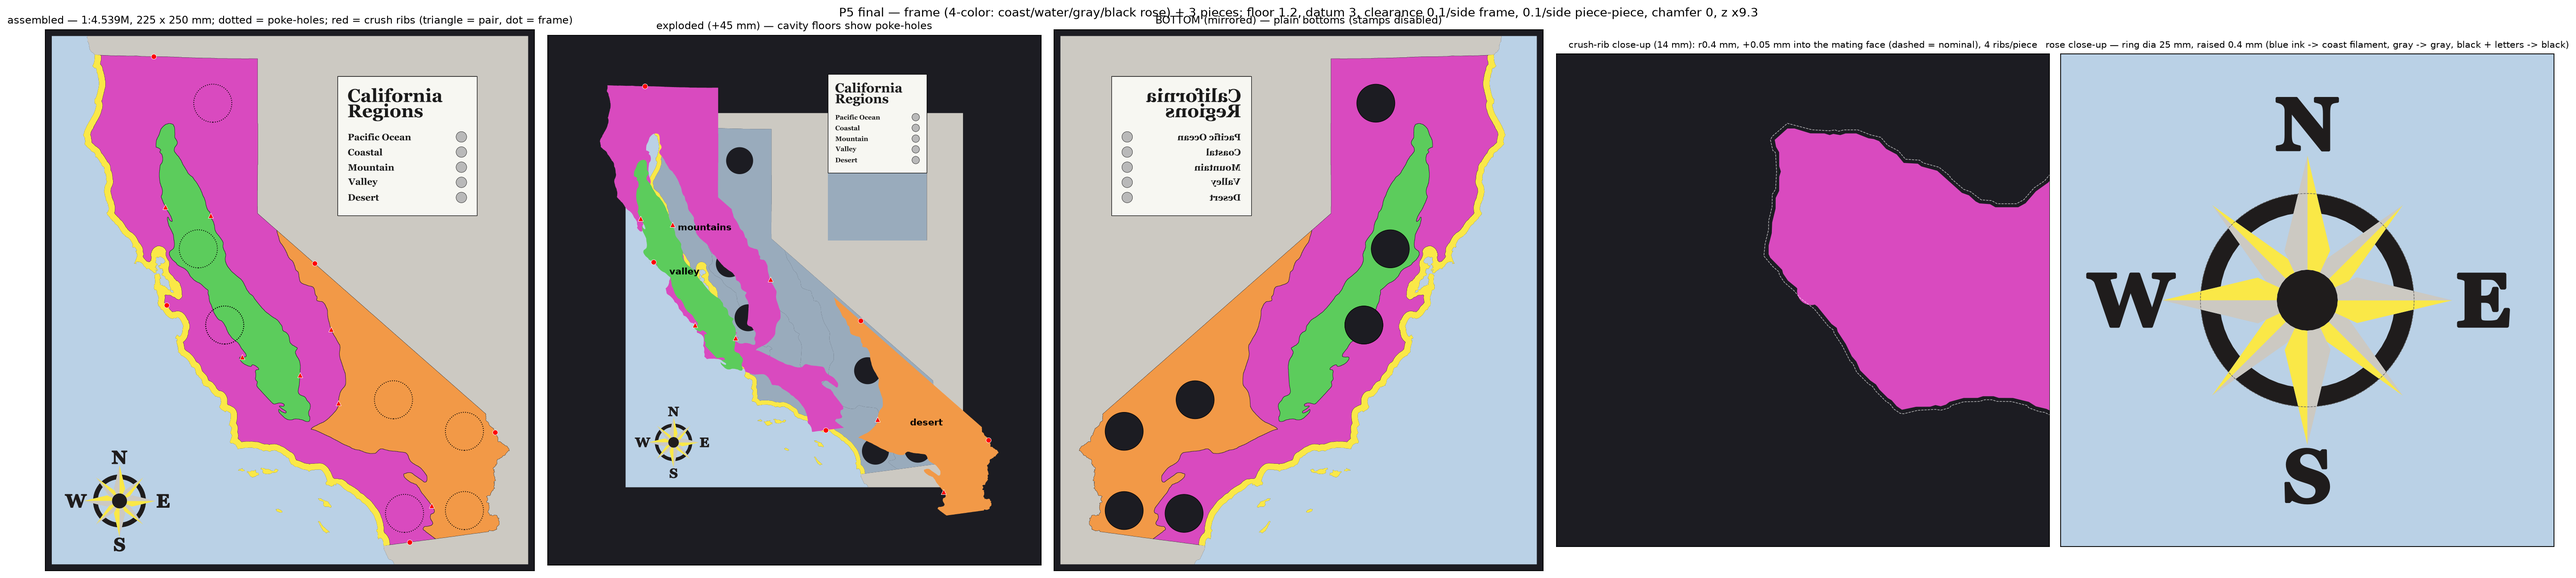
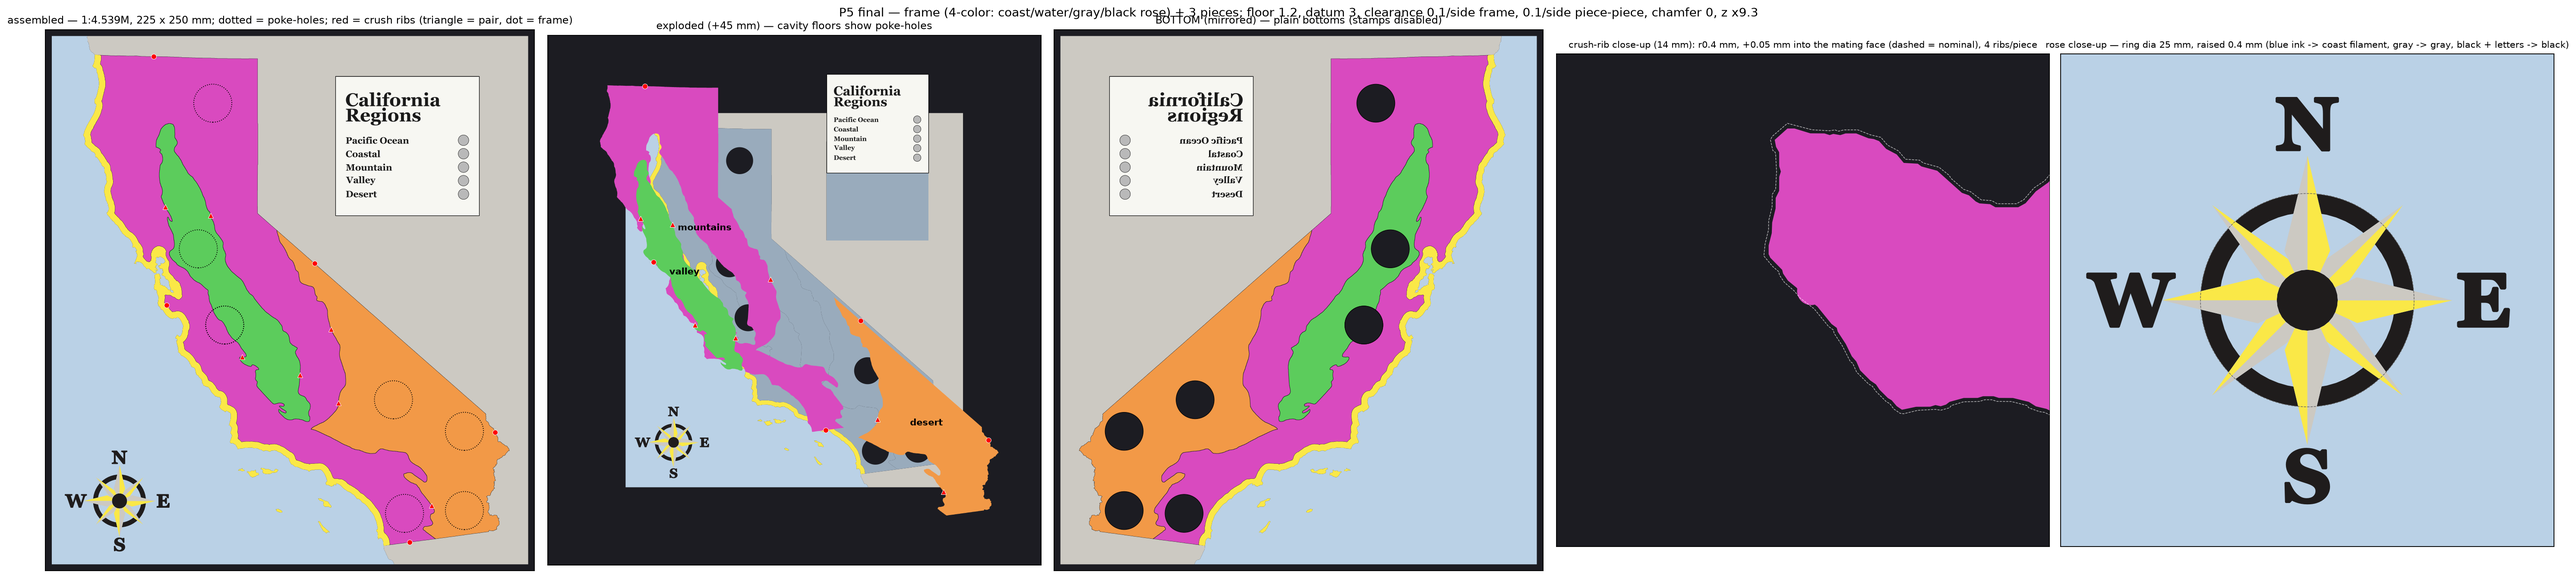
Key insert: cut line, crop marks, and a blank border inside it
ahl: "a cut line and a border all the way around? I don't like that the
left edge is right up against the lettering".

The page is now the recess plus 5 mm of spare paper on every side --
something to hold while trimming -- with a cut line and corner crop
marks drawn at the exact recess size, so cutting on the line yields a
piece that drops straight into the recess. Inside that, layout()
reserves a 2 mm blank border before any type.

That border comes OUT of the usable text column, which had a
consequence worth naming: "California" at the 6 mm title cap is
44.6 mm, and a bordered 48 mm column leaves only 44 mm, so the title
would no longer fit. The key grew 66 -> 68 mm wide to absorb it. The
_wrap assert would have caught this, but better to size for it than to
trip it.

Both margins are config ([key].insert_border_mm / insert_bleed_mm), and
the row/pocket positions fold the border in once so the swatches still
line up with their labels. The P5 preview draws the real inset text, so
the border is visible there too.

Changed region(s): [[0.1247, 0.1529, 0.187, 0.3669], [0.4363, 0.1529, 0.4987, 0.3669], [0.3117, 0.1223, 0.374, 0.2752]]

diff --git a/pipeline/key_panel.py b/pipeline/key_panel.py
@@ -79,6 +79,11 @@ TITLE_CAP_MM = 6.0         # ahl 2026-09-15: same size as the compass
                            # the text column needs.
 TITLE_GAP_MM = 4.0         # space between the title block and the list
 TITLE_LINE_FRAC = 1.35     # title line height / cap
+INSERT_BORDER_MM = 2.0     # blank margin inside the cut line on the
+                           # printed insert, so type is not flush to the
+                           # paper edge (ahl 2026-09-15)
+INSERT_BLEED_MM = 5.0      # extra paper OUTSIDE the cut line, to hold
+                           # while trimming
 
 
 # ---------------------------------------------------------------- layout
@@ -106,7 +111,7 @@ def _wrap(text, ff, cap_mm, max_w):
 
 def layout(plate_w, plate_h, pocket_d=None, title=TITLE,
            title_cap=TITLE_CAP_MM, title_gap=TITLE_GAP_MM,
-           label_cap=CAP_MM):
+           label_cap=CAP_MM, insert_border=INSERT_BORDER_MM):
     """Lay the key out inside a GIVEN plate rectangle (ahl 2026-09-15:
     the key's footprint comes from config [key], the contents fit it).
 
@@ -130,11 +135,16 @@ def layout(plate_w, plate_h, pocket_d=None, title=TITLE,
     recess = {"x0": MARGIN_MM, "y0": MARGIN_MM,
              "x1": plate_w - MARGIN_MM - pocket_d - TEXT_GAP_MM,
              "y1": plate_h - MARGIN_MM}
-    rec_w = recess["x1"] - recess["x0"]
-    rec_h = recess["y1"] - recess["y0"]
+    # the printed insert keeps a blank BORDER inside the cut line, so
+    # the lettering is not jammed against the paper edge (ahl
+    # 2026-09-15). That border comes out of the usable text area, so the
+    # type has to fit rec_w - 2*border, not rec_w.
+    rec_w = recess["x1"] - recess["x0"] - 2 * insert_border
+    rec_h = recess["y1"] - recess["y0"] - 2 * insert_border
     assert rec_w > 10.0, (f"key too narrow: text column only {rec_w:.1f} mm "
                           f"(plate {plate_w:.1f} - margins - {pocket_d:g} mm "
-                          "pocket column)")
+                          f"pocket column - {2 * insert_border:g} mm insert "
+                          "border)")
 
     title_lines, _ = _wrap(title, ff, title_cap, rec_w)
     line_h = title_cap * TITLE_LINE_FRAC
@@ -155,15 +165,18 @@ def layout(plate_w, plate_h, pocket_d=None, title=TITLE,
                             f"{label_cap:g} mm cap, text column is "
                             f"{rec_w:.1f} mm")
 
-    # title sits at the top of the recess, first line highest
+    # positions below are LOCAL to the recess (the frame render_label
+    # draws in), so the border offset is folded in here once
     recess["title_lines"] = title_lines
     recess["title_cap"] = title_cap
     recess["label_cap"] = label_cap
-    recess["title_y_local"] = [rec_h - (i + 0.5) * line_h
+    recess["border"] = insert_border
+    recess["text_x_local"] = insert_border
+    recess["title_y_local"] = [insert_border + rec_h - (i + 0.5) * line_h
                                for i in range(len(title_lines))]
 
     pocket_x = plate_w - MARGIN_MM - pocket_d / 2
-    rows_top = recess["y0"] + rows_h
+    rows_top = recess["y0"] + insert_border + rows_h
     rows = []
     for i, lab in enumerate(LABELS):
         cy = rows_top - (i + 0.5) * row_pitch
@@ -283,40 +296,62 @@ def insert_mesh(diameter, height, seg=48):
 
 
 # ------------------------------------------------------------- 2D label
-def render_label(recess, rows):
-    """The printed KEY INSERT: a PDF sized exactly to the label recess,
-    carrying the title and the region names at the row positions
-    layout() computed.  Print at 100% and drop it into the recess.
+def render_label(recess, rows, bleed=INSERT_BLEED_MM):
+    """The printed KEY INSERT.
+
+    The page is the recess plus `bleed` of spare paper on every side, so
+    there is something to hold while trimming, with a CUT LINE drawn at
+    the exact recess size -- cut on the line and the piece drops into the
+    recess.  Inside that, layout() has already reserved a blank border
+    (recess["border"]) so the lettering is not flush to the paper edge
+    (ahl 2026-09-15: "I don't like that the left edge is right up
+    against the lettering").
 
     2D-printed rather than moulded in plastic because FDM text at this
     size fights a 0.4 mm nozzle -- at 3.5 mm cap Georgia Bold crowded
-    even after narrowing the glyphs (ahl 2026-09-15)."""
+    even after narrowing the glyphs."""
     import matplotlib
     matplotlib.use("Agg")
     import matplotlib.pyplot as plt
+    from matplotlib.patches import Rectangle
 
     w = recess["x1"] - recess["x0"]
     h = recess["y1"] - recess["y0"]
-    fig = plt.figure(figsize=(w / 25.4, h / 25.4), dpi=300)
+    pw, ph = w + 2 * bleed, h + 2 * bleed
+    fig = plt.figure(figsize=(pw / 25.4, ph / 25.4), dpi=300)
     ax = fig.add_axes([0, 0, 1, 1])
-    ax.set_xlim(0, w)
-    ax.set_ylim(0, h)
+    ax.set_xlim(0, pw)
+    ax.set_ylim(0, ph)
     ax.set_aspect("equal")
     ax.axis("off")
-    # matplotlib sizes text in POINTS by font size, not cap height;
-    # Georgia's cap is ~0.7 em, so pt = cap_mm / 0.7 / 25.4 * 72
+
+    # CUT LINE at the true recess size
+    ax.add_patch(Rectangle((bleed, bleed), w, h, fill=False,
+                           edgecolor="#9a9a9a", linewidth=0.4))
+    for x, y, dx, dy in ((bleed, bleed, -1, 0), (bleed, bleed, 0, -1),
+                         (bleed + w, bleed, 1, 0), (bleed + w, bleed, 0, -1),
+                         (bleed, bleed + h, -1, 0), (bleed, bleed + h, 0, 1),
+                         (bleed + w, bleed + h, 1, 0),
+                         (bleed + w, bleed + h, 0, 1)):
+        ax.plot([x, x + dx * bleed * 0.55], [y, y + dy * bleed * 0.55],
+                color="#9a9a9a", lw=0.4)
+
+    # matplotlib sizes text in POINTS by em, Georgia's cap is ~0.7 em
     pt = lambda cap_mm: cap_mm / 0.7 * 72.0 / 25.4
+    tx = bleed + recess.get("text_x_local", 0.0)
     for ln, y in zip(recess["title_lines"], recess["title_y_local"]):
-        ax.text(0.0, y, ln, fontfamily="Georgia", fontweight="bold",
+        ax.text(tx, bleed + y, ln, fontfamily="Georgia", fontweight="bold",
                 fontsize=pt(recess["title_cap"]), va="center", ha="left")
     for r in rows:
-        ax.text(0.0, r["text_y_local"], r["label"], fontfamily="Georgia",
-                fontweight="bold", fontsize=pt(recess["label_cap"]),
-                va="center", ha="left")
+        ax.text(tx, bleed + r["text_y_local"], r["label"],
+                fontfamily="Georgia", fontweight="bold",
+                fontsize=pt(recess["label_cap"]), va="center", ha="left")
     path = OUT_DIR / "key_insert.pdf"
     fig.savefig(path, facecolor="white")
     plt.close(fig)
-    print(f"-> {path} ({w:.1f} x {h:.1f} mm, print at 100%/actual size; "
-          f"title {'/'.join(recess['title_lines'])} at "
+    print(f"-> {path}: page {pw:.1f} x {ph:.1f} mm, CUT LINE at "
+          f"{w:.1f} x {h:.1f} mm (the recess), {recess.get('border', 0):g} mm "
+          f"blank border inside it; print at 100%/actual size\n"
+          f"      title {'/'.join(recess['title_lines'])} at "
           f"{recess['title_cap']:g} mm cap, labels at "
-          f"{recess['label_cap']:g} mm)")
+          f"{recess['label_cap']:g} mm")

diff --git a/pipeline/p5_final.py b/pipeline/p5_final.py
@@ -594,7 +594,9 @@ def main():
             title=KEY.get("title", key_panel.TITLE),
             title_cap=KEY.get("title_cap_mm", key_panel.TITLE_CAP_MM),
             title_gap=KEY.get("title_gap_mm", key_panel.TITLE_GAP_MM),
-            label_cap=KEY.get("label_cap_mm", key_panel.CAP_MM))
+            label_cap=KEY.get("label_cap_mm", key_panel.CAP_MM),
+            insert_border=KEY.get("insert_border_mm",
+                                  key_panel.INSERT_BORDER_MM))
         recesses = [{"points": key_panel.circle_ring(
                         *r["pocket_c"], KEY.get("pocket_d_mm", 5.0) / 2),
                      "depth": KEY.get("pocket_depth_mm", 1.4)}
@@ -627,7 +629,9 @@ def main():
               f"{key_recess['x1'] - key_recess['x0']:.1f} x {key_recess['y1'] - key_recess['y0']:.1f}"
               f" x {KEY.get('label_recess_mm', 0.2):g} deep -> {kpath}")
         key_panel.OUT_DIR = OUT_DIR       # write the label next to key.stl
-        key_panel.render_label(key_recess, key_rows)
+        key_panel.render_label(key_recess, key_rows,
+                               bleed=KEY.get("insert_bleed_mm",
+                                             key_panel.INSERT_BLEED_MM))
         # the swatch PLUG ships as a plain P5 output (ahl 2026-09-15:
         # "it can just live with the other p5 output; I'll build out a
         # bambu file to optimize printing everything by hand"). One

diff --git a/NOTES.md b/NOTES.md
@@ -98,7 +98,7 @@ set into a frame of the surrounding geography.
 | D6 | Print bed 256×256 mm; whole model ≤ 1000×1000 mm total | Either frame fits one bed, or frame is carved into tiles |
 | D7 | Material: PLA. Fit: snug but disassemblable | Clearance values TBD (see G3) |
 | D8 | Version control: jj (colocated git), repo = this directory | |
-| D19 | **Region KEY (ahl 2026-09-15):** a rectangular plate inset into the P5 frame over NEVADA, carrying a TITLE ("California Regions", 6 mm cap = the same size as the compass rose's N/E/S/W letters, word-wrapped to "California"/"Regions") then, after a gap, the five regions (Pacific Ocean, Coastal, Mountain, Valley, Desert) at a smaller 3 mm cap, each with a 5 mm circular colour-swatch plug beside it. Title layout sets the size: the text column must fit "California" at 6 mm (44.6 mm), which drove the key to 66 x 66 mm (was 56 x 57 before the title). Title and labels share ONE rectangular recess with the pockets in a column to its right, so the paper insert is a plain rectangle with no holes to punch. Cut as a recess exactly like a piece cavity. **PERMANENT press fit** — no crush ribs, no poke-hole, `[key].interference_mm` (0.05 total) of squeeze, glue optional. Bottom sits on the tray floor at the same z as every piece; **top is flush with the tallest terrain ON ITS BOUNDARY** — the build walks the rectangle's perimeter every run and takes the max, so the plate finishes level with the ground it actually abuts and moving/resizing the key re-heights it automatically (there is no height knob; verified by moving the key and watching 6.24 -> 6.69 mm). "Adjacent" means on the boundary line, NOT merely nearby: an earlier band-sampling version picked up a peak standing off from the key and made it 1.2 mm too tall. Labels are 2D-PRINTED (`out/p5/key_insert.pdf`, sized to a 0.2 mm recess) — FDM text at this size fights the 0.4 mm nozzle. Config `[key]`: enabled, center_mm, width_mm, height_mm, adjacent_search_mm, interference_mm, pocket_*, label_recess_mm. Location picked by scanning for the largest clear gray non-CA land block. The swatch PLUG is a plain P5 output too (`out/p5/key_plug.stl`) — ONE flat-topped cylinder, printed five times in the five region colours (Pacific Ocean = water, Coastal = coast, then the three piece colours); ahl lays the real print out by hand in Bambu Studio, so the build does not pack plugs onto a plate or merge them into another part. Plug dimensions live in `[key].plug_interference_mm` / `plug_proud_mm` and are PROVISIONAL — settle them from `pipeline/key_pocket_coupon.py` (-> `out/key_coupon/{pocket_coupon,plug}.stl`), which reads the pocket size from this same config so the coupon always matches the real key. The standalone key-panel build was REMOVED 2026-09-15 (ahl: "get rid of the stand-alone key stuff"); `key_panel.py` is now a pure library shared by p5_final and the coupon. | |
+| D19 | **Region KEY (ahl 2026-09-15):** a rectangular plate inset into the P5 frame over NEVADA, carrying a TITLE ("California Regions", 6 mm cap = the same size as the compass rose's N/E/S/W letters, word-wrapped to "California"/"Regions") then, after a gap, the five regions (Pacific Ocean, Coastal, Mountain, Valley, Desert) at a smaller 3 mm cap, each with a 5 mm circular colour-swatch plug beside it. Title layout sets the size: the text column must fit "California" at 6 mm (44.6 mm), which drove the key to 66 x 66 mm (was 56 x 57 before the title). Title and labels share ONE rectangular recess with the pockets in a column to its right, so the paper insert is a plain rectangle with no holes to punch. Cut as a recess exactly like a piece cavity. **PERMANENT press fit** — no crush ribs, no poke-hole, `[key].interference_mm` (0.05 total) of squeeze, glue optional. Bottom sits on the tray floor at the same z as every piece; **top is flush with the tallest terrain ON ITS BOUNDARY** — the build walks the rectangle's perimeter every run and takes the max, so the plate finishes level with the ground it actually abuts and moving/resizing the key re-heights it automatically (there is no height knob; verified by moving the key and watching 6.24 -> 6.69 mm). "Adjacent" means on the boundary line, NOT merely nearby: an earlier band-sampling version picked up a peak standing off from the key and made it 1.2 mm too tall. Labels are 2D-PRINTED (`out/p5/key_insert.pdf`): the page is the recess plus 5 mm of spare paper on every side with a CUT LINE + corner crop marks at the exact recess size, and a 2 mm blank border inside that so type is not flush to the paper edge (ahl 2026-09-15). The border is taken out of the usable text column, which is why the key went 66 -> 68 mm wide — "California" at the 6 mm title cap is 44.6 mm and would not fit a bordered 48 mm column. Sits in a 0.2 mm recess — FDM text at this size fights the 0.4 mm nozzle. Config `[key]`: enabled, center_mm, width_mm, height_mm, adjacent_search_mm, interference_mm, pocket_*, label_recess_mm. Location picked by scanning for the largest clear gray non-CA land block. The swatch PLUG is a plain P5 output too (`out/p5/key_plug.stl`) — ONE flat-topped cylinder, printed five times in the five region colours (Pacific Ocean = water, Coastal = coast, then the three piece colours); ahl lays the real print out by hand in Bambu Studio, so the build does not pack plugs onto a plate or merge them into another part. Plug dimensions live in `[key].plug_interference_mm` / `plug_proud_mm` and are PROVISIONAL — settle them from `pipeline/key_pocket_coupon.py` (-> `out/key_coupon/{pocket_coupon,plug}.stl`), which reads the pocket size from this same config so the coupon always matches the real key. The standalone key-panel build was REMOVED 2026-09-15 (ahl: "get rid of the stand-alone key stuff"); `key_panel.py` is now a pure library shared by p5_final and the coupon. | |
 | D18 | **Retention & disassembly (ahl 2026-09-14, from T1):** pieces stay seated through handling (T1: mountains fell out when tipped); the FINGER POKE-HOLES (18 mm, may span piece-piece seams) are THE disassembly mechanism. Retention via crush ribs on piece walls (rib_* knobs; ~0.05 mm interference, tune from T2 print). Clearances split by interface: 0.15 total everywhere (frame 0.15 single-side kept from T1's good fit; piece-pair 0.075/side, was 0.30 total = loose valley). | |
 | D17 | **Compass rose (ahl 2026-09-14):** 8-point nautical rose (4 cardinal + 4 intercardinal, split-shaded points, center circle, outer ring, N/E/S/W serif letters) in the bottom-left Pacific of the Frame. Concept: "compass rose.jpeg". Design source: assets/compass_rose.svg (parametric generator pipeline/compass_rose.py — edit SVG directly or params). **Makes the Frame a 4-COLOR print** (adds black for rose outlines + lettering). Physical size + emboss method decided at placement. | |
 | D16 | **The Frame is a TRAY (ahl 2026-09-13):** a continuous floor (FLOOR_MM = 1.2, 6 layers) runs under the whole footprint; cavities are recesses, not through-holes — pieces rest ON the Frame. Poke-holes (2x 8 mm circles in the floor per piece, at interior points) allow pushing pieces out from below. Pieces carry BASE_MM - FLOOR_MM of slab so all datums/tops align. Water/base height: 3.0 mm proposed for final rigidity (ahl deciding 2.0-3.0); G2 relief rides on top (total max ~11.5 mm at 3.0). | |
